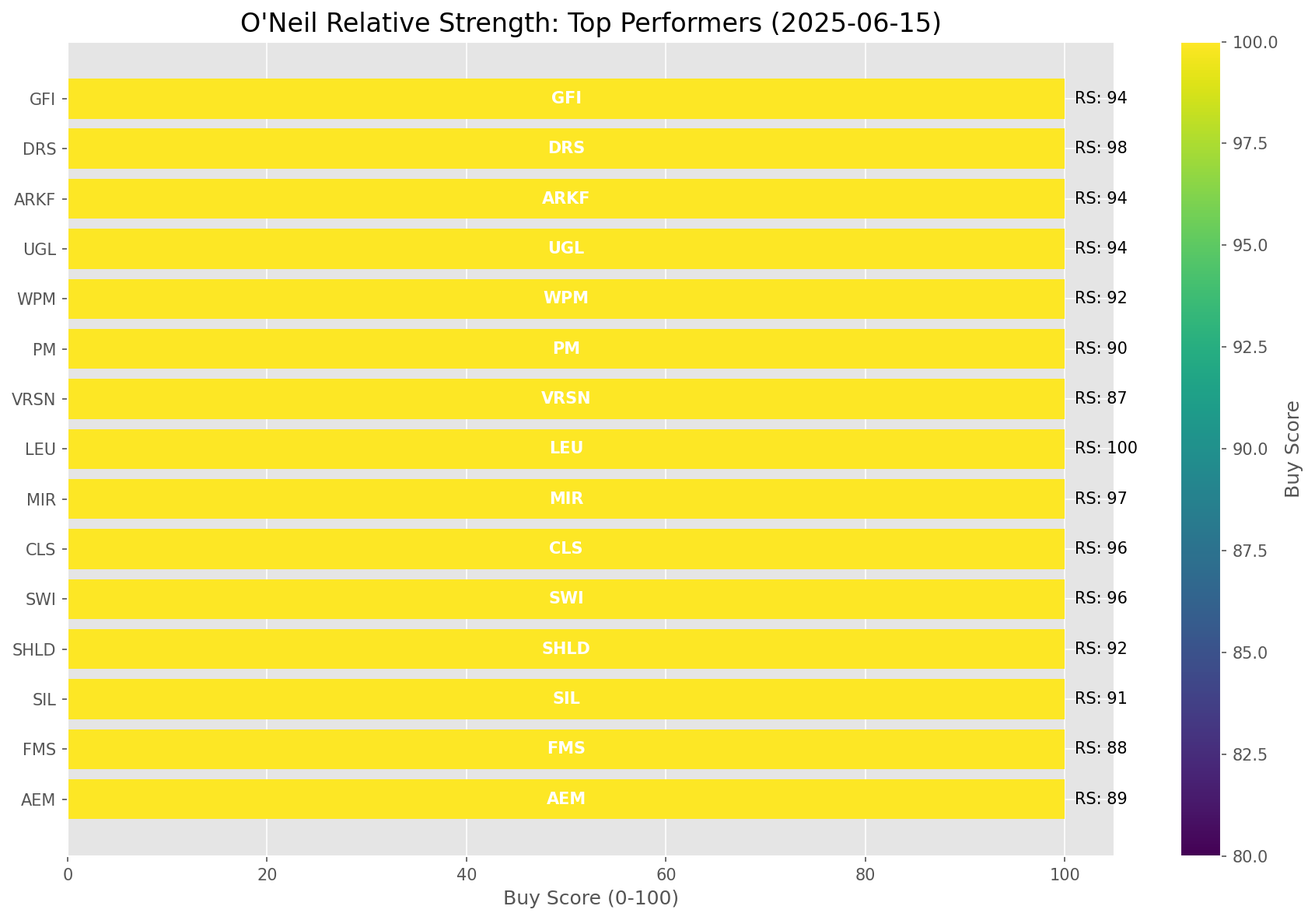
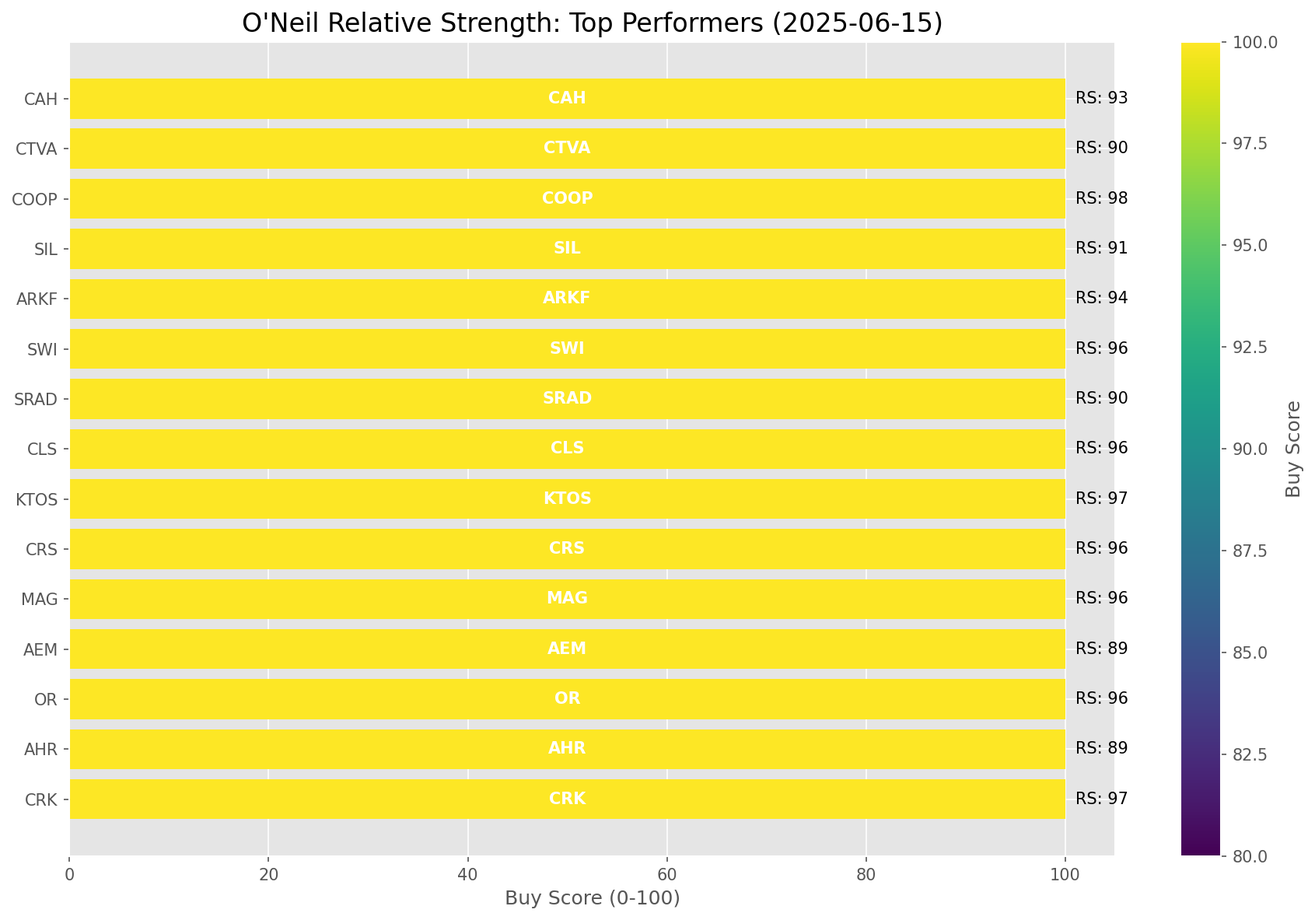
Add market report for 2025-06-15

diff --git a/oneil_relative_strength_report_2025-06-15.md b/oneil_relative_strength_report_2025-06-15.md
@@ -76,13 +76,13 @@ Based on William O'Neil's Relative Strength Methodology
 | [XLP](https://www.tradingview.com/chart/?symbol=XLP) | 46.5 | 53.0 | 1.82% | 10d ✗, 50d ✗, 200d ✗ | ↗ | Consumer Staples |
 | [IYR](https://www.tradingview.com/chart/?symbol=IYR) | 43.3 | 47.0 | 0.45% | 10d ✓, 50d ✓, 200d ✗ | ↘ | Real Estate |
 | [BIL](https://www.tradingview.com/chart/?symbol=BIL) | 41.8 | 44.0 | 0.00% | 10d ✓, 50d ✓, 200d ✗ | ↘ | Short-term Treasuries |
-| [XLE](https://www.tradingview.com/chart/?symbol=XLE) | 37.3 | 35.0 | -1.85% | 10d ✓, 50d ✓, 200d ✗ | ↘ | Energy |
+| [XLE](https://www.tradingview.com/chart/?symbol=XLE) | 37.8 | 36.0 | -1.85% | 10d ✓, 50d ✓, 200d ✗ | ↘ | Energy |
 | [XLB](https://www.tradingview.com/chart/?symbol=XLB) | 35.9 | 52.0 | 1.63% | 10d ✗, 50d ✓, 200d ✗ | ↘ | Materials |
 | [IYT](https://www.tradingview.com/chart/?symbol=IYT) | 34.4 | 49.0 | 0.99% | 10d ✗, 50d ✓, 200d ✗ | ↘ | Transportation |
 | [IBB](https://www.tradingview.com/chart/?symbol=IBB) | 32.8 | 26.0 | -4.61% | 10d ✓, 50d ✓, 200d ✗ | ↘ | Biotechnology |
 | [XLV](https://www.tradingview.com/chart/?symbol=XLV) | 30.8 | 22.0 | -6.07% | 10d ✓, 50d ✓, 200d ✗ | ↘ | Healthcare |
 | [TLT](https://www.tradingview.com/chart/?symbol=TLT) | 23.9 | 28.0 | -4.26% | 10d ✓, 50d ✗, 200d ✗ | ↘ | Long-term Treasuries |
-| [UUP](https://www.tradingview.com/chart/?symbol=UUP) | 13.5 | 27.0 | -4.30% | 10d ✗, 50d ✗, 200d ✗ | ↘ | U.S. Dollar |
+| [UUP](https://www.tradingview.com/chart/?symbol=UUP) | 14.0 | 28.0 | -4.30% | 10d ✗, 50d ✗, 200d ✗ | ↘ | U.S. Dollar |
 | [ITB](https://www.tradingview.com/chart/?symbol=ITB) | 12.0 | 24.0 | -5.35% | 10d ✗, 50d ✗, 200d ✗ | ↘ | Home Construction |
 
 ### **Sector ETF Performance Interpretation**
@@ -106,70 +106,71 @@ The **Next Generation Internet** sector (represented by **ARKW**) is showing par
 
 ## **Buy Recommendations**
 
-The following 64 stocks show exceptional relative strength:
+The following 65 stocks show exceptional relative strength:
 
 | RS Rating | Buy Score | Current Price | Chart | Name | Ticker |
 |-----------|-----------|---------------|-------|------|--------|
-| 100 | 100 | $162.24 | [Chart](https://www.tradingview.com/chart/?symbol=LEU) | Centrus Energy Corp. | LEU |
 | 100 | 100 | $133.54 | [Chart](https://www.tradingview.com/chart/?symbol=SEZL) | Sezzle Inc. Common Stock | SEZL |
+| 100 | 100 | $162.24 | [Chart](https://www.tradingview.com/chart/?symbol=LEU) | Centrus Energy Corp. | LEU |
 | 100 | 100 | $97.17 | [Chart](https://www.tradingview.com/chart/?symbol=RBLX) | Roblox Corporation | RBLX |
 | 99 | 100 | $50.84 | [Chart](https://www.tradingview.com/chart/?symbol=AU) | AngloGold Ashanti plc | AU |
 | 99 | 100 | $137.40 | [Chart](https://www.tradingview.com/chart/?symbol=PLTR) | Palantir Technologies Inc. Class A Common Stock | PLTR |
 | 99 | 100 | $42.49 | [Chart](https://www.tradingview.com/chart/?symbol=FARO) | Faro Technologies Inc | FARO |
-| 98 | 100 | $46.07 | [Chart](https://www.tradingview.com/chart/?symbol=DRS) | Leonardo DRS, Inc. Common Stock | DRS |
 | 98 | 100 | $143.08 | [Chart](https://www.tradingview.com/chart/?symbol=COOP) | Mr. Cooper Group Inc. Common Stock | COOP |
-| 97 | 100 | $19.90 | [Chart](https://www.tradingview.com/chart/?symbol=MIR) | Mirion Technologies, Inc. | MIR |
+| 98 | 100 | $46.07 | [Chart](https://www.tradingview.com/chart/?symbol=DRS) | Leonardo DRS, Inc. Common Stock | DRS |
 | 97 | 100 | $25.33 | [Chart](https://www.tradingview.com/chart/?symbol=CRK) | Comstock Resources, Inc. | CRK |
 | 97 | 100 | $41.76 | [Chart](https://www.tradingview.com/chart/?symbol=KTOS) | Kratos Defense & Security Solutions, Inc. | KTOS |
-| 96 | 100 | $125.33 | [Chart](https://www.tradingview.com/chart/?symbol=CLS) | Celestica, Inc. | CLS |
-| 96 | 100 | $253.18 | [Chart](https://www.tradingview.com/chart/?symbol=GWRE) | GUIDEWIRE SOFTWARE, INC. | GWRE |
+| 97 | 100 | $19.90 | [Chart](https://www.tradingview.com/chart/?symbol=MIR) | Mirion Technologies, Inc. | MIR |
 | 96 | 100 | $26.80 | [Chart](https://www.tradingview.com/chart/?symbol=OR) | OR Royalties Inc. | OR |
 | 96 | 100 | $21.42 | [Chart](https://www.tradingview.com/chart/?symbol=MAG) | MAG Silver Corp. | MAG |
+| 96 | 100 | $248.72 | [Chart](https://www.tradingview.com/chart/?symbol=CRS) | Carpenter Technology Corp | CRS |
+| 96 | 100 | $125.33 | [Chart](https://www.tradingview.com/chart/?symbol=CLS) | Celestica, Inc. | CLS |
 | 96 | 100 | $480.62 | [Chart](https://www.tradingview.com/chart/?symbol=CRWD) | CrowdStrike Holdings, Inc. Class A Common Stock | CRWD |
+| 96 | 100 | $253.18 | [Chart](https://www.tradingview.com/chart/?symbol=GWRE) | GUIDEWIRE SOFTWARE, INC. | GWRE |
 | 96 | 100 | $277.16 | [Chart](https://www.tradingview.com/chart/?symbol=TLN) | Talen Energy Corporation Common Stock | TLN |
 | 95 | 100 | $71.23 | [Chart](https://www.tradingview.com/chart/?symbol=GDXJ) | VanEck Junior Gold Miners ETF | GDXJ |
 | 95 | 100 | $25.13 | [Chart](https://www.tradingview.com/chart/?symbol=TFPM) | Triple Flag Precious Metals Corp. | TFPM |
-| 94 | 100 | $37.47 | [Chart](https://www.tradingview.com/chart/?symbol=UGL) | ProShares Ultra Gold | UGL |
 | 94 | 100 | $44.07 | [Chart](https://www.tradingview.com/chart/?symbol=ARKF) | ARK Fintech Innovation ETF | ARKF |
-| 94 | 100 | $25.71 | [Chart](https://www.tradingview.com/chart/?symbol=GFI) | Gold Fields Ltd ADR | GFI |
+| 94 | 100 | $37.47 | [Chart](https://www.tradingview.com/chart/?symbol=UGL) | ProShares Ultra Gold | UGL |
 | 94 | 100 | $506.16 | [Chart](https://www.tradingview.com/chart/?symbol=CASY) | Casey's General Stores Inc | CASY |
+| 94 | 100 | $25.71 | [Chart](https://www.tradingview.com/chart/?symbol=GFI) | Gold Fields Ltd ADR | GFI |
 | 93 | 100 | $161.41 | [Chart](https://www.tradingview.com/chart/?symbol=CAH) | Cardinal Health, Inc. | CAH |
+| 93 | 100 | $55.62 | [Chart](https://www.tradingview.com/chart/?symbol=AKRO) | Akero Therapeutics, Inc. Common Stock | AKRO |
 | 93 | 100 | $174.57 | [Chart](https://www.tradingview.com/chart/?symbol=EAT) | Brinker International, Inc. | EAT |
 | 93 | 100 | $129.38 | [Chart](https://www.tradingview.com/chart/?symbol=NTES) | NetEase, inc. | NTES |
-| 93 | 100 | $55.62 | [Chart](https://www.tradingview.com/chart/?symbol=AKRO) | Akero Therapeutics, Inc. Common Stock | AKRO |
-| 92 | 100 | $59.28 | [Chart](https://www.tradingview.com/chart/?symbol=SHLD) | Global X Defense Tech ETF | SHLD |
-| 92 | 100 | $91.70 | [Chart](https://www.tradingview.com/chart/?symbol=WPM) | Wheaton Precious Metals Corp. Common Stock | WPM |
 | 92 | 100 | $54.46 | [Chart](https://www.tradingview.com/chart/?symbol=GDX) | VanEck Gold Miners ETF | GDX |
+| 92 | 100 | $91.70 | [Chart](https://www.tradingview.com/chart/?symbol=WPM) | Wheaton Precious Metals Corp. Common Stock | WPM |
+| 92 | 100 | $59.28 | [Chart](https://www.tradingview.com/chart/?symbol=SHLD) | Global X Defense Tech ETF | SHLD |
 | 91 | 100 | $48.81 | [Chart](https://www.tradingview.com/chart/?symbol=SIL) | Global X Silver Miners ETF (NEW) | SIL |
 | 91 | 100 | $710.85 | [Chart](https://www.tradingview.com/chart/?symbol=SPOT) | Spotify Technology S.A. | SPOT |
-| 90 | 100 | $184.33 | [Chart](https://www.tradingview.com/chart/?symbol=PM) | Philip Morris International Inc. | PM |
 | 90 | 100 | $24.33 | [Chart](https://www.tradingview.com/chart/?symbol=SRAD) | Sportradar Group AG Class A Ordinary Shares | SRAD |
 | 90 | 100 | $72.43 | [Chart](https://www.tradingview.com/chart/?symbol=CTVA) | Corteva, Inc. Common Stock | CTVA |
+| 90 | 100 | $184.33 | [Chart](https://www.tradingview.com/chart/?symbol=PM) | Philip Morris International Inc. | PM |
+| 89 | 100 | $35.40 | [Chart](https://www.tradingview.com/chart/?symbol=AHR) | American Healthcare REIT, Inc. | AHR |
 | 89 | 100 | $124.46 | [Chart](https://www.tradingview.com/chart/?symbol=AEM) | Agnico Eagle Mines Ltd. | AEM |
 | 89 | 100 | $28.88 | [Chart](https://www.tradingview.com/chart/?symbol=IMAX) | Imax Corp | IMAX |
-| 89 | 100 | $35.40 | [Chart](https://www.tradingview.com/chart/?symbol=AHR) | American Healthcare REIT, Inc. | AHR |
 | 88 | 100 | $28.61 | [Chart](https://www.tradingview.com/chart/?symbol=FMS) | Fresenius Medical Care AG | FMS |
 | 87 | 100 | $279.90 | [Chart](https://www.tradingview.com/chart/?symbol=VRSN) | VeriSign Inc | VRSN |
-| 86 | 100 | $217.50 | [Chart](https://www.tradingview.com/chart/?symbol=DRI) | Darden Restaurants, Inc. | DRI |
 | 88 | 99 | $180.22 | [Chart](https://www.tradingview.com/chart/?symbol=ITA) | iShares U.S. Aerospace & Defense ETF | ITA |
+| 88 | 99 | $182.29 | [Chart](https://www.tradingview.com/chart/?symbol=RGLD) | Royal Gold Inc | RGLD |
 | 87 | 99 | $48.80 | [Chart](https://www.tradingview.com/chart/?symbol=BTI) | British American Tobacco p.l.c. American Depositary Shares, American Depositary Shares, each representing one Ordinary Share | BTI |
+| 86 | 99 | $217.50 | [Chart](https://www.tradingview.com/chart/?symbol=DRI) | Darden Restaurants, Inc. | DRI |
 | 88 | 98 | $136.67 | [Chart](https://www.tradingview.com/chart/?symbol=PPA) | Invesco Aerospace & Defense ETF | PPA |
 | 87 | 98 | $217.30 | [Chart](https://www.tradingview.com/chart/?symbol=BAP) | Credicorp LTD | BAP |
-| 87 | 98 | $182.29 | [Chart](https://www.tradingview.com/chart/?symbol=RGLD) | Royal Gold Inc | RGLD |
 | 85 | 98 | $41.12 | [Chart](https://www.tradingview.com/chart/?symbol=VIRT) | Virtu Financial, Inc. Class A | VIRT |
-| 84 | 97 | $316.29 | [Chart](https://www.tradingview.com/chart/?symbol=GLD) | SPDR Gold Trust, SPDR Gold Shares | GLD |
-| 84 | 97 | $32.75 | [Chart](https://www.tradingview.com/chart/?symbol=SGOL) | abrdn Physical Gold Shares ETF | SGOL |
-| 84 | 97 | $33.09 | [Chart](https://www.tradingview.com/chart/?symbol=OUNZ) | VanEck Merk Gold ETF | OUNZ |
-| 84 | 97 | $64.74 | [Chart](https://www.tradingview.com/chart/?symbol=IAU) | iShares Gold Trust | IAU |
-| 84 | 97 | $67.97 | [Chart](https://www.tradingview.com/chart/?symbol=GLDM) | SPDR Gold MiniShares | GLDM |
 | 84 | 97 | $33.91 | [Chart](https://www.tradingview.com/chart/?symbol=AAAU) | Goldman Sachs Physical Gold ETF Shares | AAAU |
+| 84 | 97 | $67.97 | [Chart](https://www.tradingview.com/chart/?symbol=GLDM) | SPDR Gold MiniShares | GLDM |
+| 84 | 97 | $64.74 | [Chart](https://www.tradingview.com/chart/?symbol=IAU) | iShares Gold Trust | IAU |
+| 84 | 97 | $32.75 | [Chart](https://www.tradingview.com/chart/?symbol=SGOL) | abrdn Physical Gold Shares ETF | SGOL |
+| 84 | 97 | $316.29 | [Chart](https://www.tradingview.com/chart/?symbol=GLD) | SPDR Gold Trust, SPDR Gold Shares | GLD |
+| 84 | 97 | $33.09 | [Chart](https://www.tradingview.com/chart/?symbol=OUNZ) | VanEck Merk Gold ETF | OUNZ |
 | 86 | 96 | $85.59 | [Chart](https://www.tradingview.com/chart/?symbol=NDAQ) | Nasdaq, Inc. Common Stock | NDAQ |
 | 84 | 96 | $34.24 | [Chart](https://www.tradingview.com/chart/?symbol=IAUM) | iShares Gold Trust Micro | IAUM |
 | 83 | 96 | $26.29 | [Chart](https://www.tradingview.com/chart/?symbol=PHYS) | Sprott Physical Gold Trust | PHYS |
 | 85 | 95 | $80.12 | [Chart](https://www.tradingview.com/chart/?symbol=BBCA) | JPMorgan BetaBuilders Canada ETF | BBCA |
 | 83 | 95 | $30.55 | [Chart](https://www.tradingview.com/chart/?symbol=MP) | MP Materials Corp. | MP |
-| 84 | 93 | $49.29 | [Chart](https://www.tradingview.com/chart/?symbol=GH) | Guardant Health, Inc. Common Stock | GH |
 | 84 | 93 | $27.93 | [Chart](https://www.tradingview.com/chart/?symbol=TGS) | Transportadora de Gas del Sur S.A. ADS | TGS |
+| 84 | 93 | $49.29 | [Chart](https://www.tradingview.com/chart/?symbol=GH) | Guardant Health, Inc. Common Stock | GH |
 | 80 | 93 | $56.84 | [Chart](https://www.tradingview.com/chart/?symbol=EQT) | EQT CORP | EQT |
 | 80 | 91 | $171.76 | [Chart](https://www.tradingview.com/chart/?symbol=FNV) | Franco-Nevada Corporation | FNV |
 | 80 | 91 | $145.69 | [Chart](https://www.tradingview.com/chart/?symbol=RTX) | RTX Corporation | RTX |
@@ -186,52 +187,52 @@ The following 156 stocks show deteriorating relative strength:
 |-----------|------------|---------------|-------|------|--------|
 | 1 | 100 | $32.02 | [Chart](https://www.tradingview.com/chart/?symbol=TECS) | Direxion Daily Technology Bear 3x Shares | TECS |
 | 1 | 100 | $12.16 | [Chart](https://www.tradingview.com/chart/?symbol=IART) | Integra LifeSciences Holdings | IART |
-| 2 | 100 | $11.93 | [Chart](https://www.tradingview.com/chart/?symbol=NRIX) | Nurix Therapeutics, Inc. Common stock | NRIX |
-| 2 | 100 | $10.36 | [Chart](https://www.tradingview.com/chart/?symbol=WNC) | Wabash National Corp. | WNC |
-| 2 | 100 | $17.00 | [Chart](https://www.tradingview.com/chart/?symbol=NVDS) | Investment Managers Series Trust II Tradr 1.5X Short NVDA Daily ETF | NVDS |
 | 2 | 100 | $94.70 | [Chart](https://www.tradingview.com/chart/?symbol=ONTO) | Onto Innovation Inc. | ONTO |
+| 2 | 100 | $10.36 | [Chart](https://www.tradingview.com/chart/?symbol=WNC) | Wabash National Corp. | WNC |
 | 2 | 100 | $17.06 | [Chart](https://www.tradingview.com/chart/?symbol=BEAM) | Beam Therapeutics Inc. Common Stock | BEAM |
-| 2 | 100 | $10.25 | [Chart](https://www.tradingview.com/chart/?symbol=SNDX) | Syndax Pharmaceuticals, Inc. | SNDX |
+| 2 | 100 | $17.00 | [Chart](https://www.tradingview.com/chart/?symbol=NVDS) | Investment Managers Series Trust II Tradr 1.5X Short NVDA Daily ETF | NVDS |
+| 2 | 100 | $11.93 | [Chart](https://www.tradingview.com/chart/?symbol=NRIX) | Nurix Therapeutics, Inc. Common stock | NRIX |
 | 2 | 100 | $17.60 | [Chart](https://www.tradingview.com/chart/?symbol=ICHR) | Ichor Holdings | ICHR |
+| 2 | 100 | $10.25 | [Chart](https://www.tradingview.com/chart/?symbol=SNDX) | Syndax Pharmaceuticals, Inc. | SNDX |
+| 3 | 100 | $13.36 | [Chart](https://www.tradingview.com/chart/?symbol=INMD) | InMode Ltd. Ordinary Shares | INMD |
+| 3 | 100 | $10.07 | [Chart](https://www.tradingview.com/chart/?symbol=MBC) | MasterBrand, Inc. | MBC |
 | 3 | 100 | $20.72 | [Chart](https://www.tradingview.com/chart/?symbol=THS) | Treehouse Foods, Inc. | THS |
 | 3 | 100 | $10.32 | [Chart](https://www.tradingview.com/chart/?symbol=PACS) | PACS Group, Inc. | PACS |
-| 3 | 100 | $13.36 | [Chart](https://www.tradingview.com/chart/?symbol=INMD) | InMode Ltd. Ordinary Shares | INMD |
-| 3 | 100 | $12.36 | [Chart](https://www.tradingview.com/chart/?symbol=ERII) | Energy Recovery, Inc. | ERII |
-| 3 | 100 | $10.07 | [Chart](https://www.tradingview.com/chart/?symbol=MBC) | MasterBrand, Inc. | MBC |
 | 3 | 100 | $43.65 | [Chart](https://www.tradingview.com/chart/?symbol=LINE) | Lineage, Inc. Common Stock | LINE |
 | 4 | 100 | $137.07 | [Chart](https://www.tradingview.com/chart/?symbol=KRYS) | Krystal Biotech, Inc. Common Stock | KRYS |
 | 4 | 100 | $10.71 | [Chart](https://www.tradingview.com/chart/?symbol=PUBM) | PubMatic, Inc. Class A Common Stock | PUBM |
-| 5 | 100 | $50.72 | [Chart](https://www.tradingview.com/chart/?symbol=SLVM) | Sylvamo Corporation | SLVM |
-| 5 | 100 | $10.80 | [Chart](https://www.tradingview.com/chart/?symbol=TWO) | Two Harbors Investment Corp. | TWO |
-| 5 | 100 | $29.87 | [Chart](https://www.tradingview.com/chart/?symbol=FUN) | Six Flags Entertainment Corporation | FUN |
-| 5 | 100 | $52.88 | [Chart](https://www.tradingview.com/chart/?symbol=CCS) | CENTURY COMMUNITIES, INC. | CCS |
-| 5 | 100 | $10.41 | [Chart](https://www.tradingview.com/chart/?symbol=CWK) | Cushman & Wakefield plc Ordinary Shares | CWK |
-| 5 | 100 | $34.38 | [Chart](https://www.tradingview.com/chart/?symbol=CYTK) | Cytokinetics Inc. | CYTK |
+| 4 | 100 | $12.36 | [Chart](https://www.tradingview.com/chart/?symbol=ERII) | Energy Recovery, Inc. | ERII |
 | 5 | 100 | $82.14 | [Chart](https://www.tradingview.com/chart/?symbol=LNW) | Light & Wonder, Inc. Common Stock | LNW |
-| 6 | 100 | $20.28 | [Chart](https://www.tradingview.com/chart/?symbol=HI) | Hillenbrand, Inc. | HI |
-| 6 | 100 | $15.27 | [Chart](https://www.tradingview.com/chart/?symbol=SAFE) | Safehold Inc. | SAFE |
+| 5 | 100 | $52.88 | [Chart](https://www.tradingview.com/chart/?symbol=CCS) | CENTURY COMMUNITIES, INC. | CCS |
+| 5 | 100 | $29.87 | [Chart](https://www.tradingview.com/chart/?symbol=FUN) | Six Flags Entertainment Corporation | FUN |
+| 5 | 100 | $10.80 | [Chart](https://www.tradingview.com/chart/?symbol=TWO) | Two Harbors Investment Corp. | TWO |
+| 5 | 100 | $34.38 | [Chart](https://www.tradingview.com/chart/?symbol=CYTK) | Cytokinetics Inc. | CYTK |
+| 5 | 100 | $10.41 | [Chart](https://www.tradingview.com/chart/?symbol=CWK) | Cushman & Wakefield plc Ordinary Shares | CWK |
+| 5 | 100 | $50.72 | [Chart](https://www.tradingview.com/chart/?symbol=SLVM) | Sylvamo Corporation | SLVM |
 | 6 | 100 | $22.22 | [Chart](https://www.tradingview.com/chart/?symbol=AMRK) | A-Mark Precious Metals, Inc. | AMRK |
-| 6 | 100 | $31.27 | [Chart](https://www.tradingview.com/chart/?symbol=MBIN) | Merchants Bancorp Common Stock | MBIN |
+| 6 | 100 | $20.28 | [Chart](https://www.tradingview.com/chart/?symbol=HI) | Hillenbrand, Inc. | HI |
 | 6 | 100 | $38.55 | [Chart](https://www.tradingview.com/chart/?symbol=APOG) | Apogee Enterprises Inc | APOG |
-| 7 | 100 | $11.90 | [Chart](https://www.tradingview.com/chart/?symbol=HPK) | HighPeak Energy, Inc. Common Stock | HPK |
+| 6 | 100 | $15.27 | [Chart](https://www.tradingview.com/chart/?symbol=SAFE) | Safehold Inc. | SAFE |
+| 6 | 100 | $31.27 | [Chart](https://www.tradingview.com/chart/?symbol=MBIN) | Merchants Bancorp Common Stock | MBIN |
 | 7 | 100 | $24.90 | [Chart](https://www.tradingview.com/chart/?symbol=JANX) | Janux Therapeutics, Inc. Common Stock | JANX |
-| 7 | 100 | $10.16 | [Chart](https://www.tradingview.com/chart/?symbol=SCS) | Steelcase, Inc. | SCS |
-| 7 | 100 | $17.25 | [Chart](https://www.tradingview.com/chart/?symbol=CODI) | Compass Diversified | CODI |
+| 7 | 100 | $11.90 | [Chart](https://www.tradingview.com/chart/?symbol=HPK) | HighPeak Energy, Inc. Common Stock | HPK |
 | 7 | 100 | $17.01 | [Chart](https://www.tradingview.com/chart/?symbol=AMTB) | Amerant Bancorp Inc. | AMTB |
-| 8 | 100 | $23.52 | [Chart](https://www.tradingview.com/chart/?symbol=RPD) | Rapid7, Inc. Common Stock | RPD |
-| 8 | 100 | $91.28 | [Chart](https://www.tradingview.com/chart/?symbol=ZBH) | Zimmer Biomet Holdings, Inc. | ZBH |
+| 7 | 100 | $10.16 | [Chart](https://www.tradingview.com/chart/?symbol=SCS) | Steelcase, Inc. | SCS |
+| 8 | 100 | $17.25 | [Chart](https://www.tradingview.com/chart/?symbol=CODI) | Compass Diversified | CODI |
 | 8 | 100 | $12.85 | [Chart](https://www.tradingview.com/chart/?symbol=THRY) | Thryv Holdings, Inc. Common Stock | THRY |
+| 8 | 100 | $91.28 | [Chart](https://www.tradingview.com/chart/?symbol=ZBH) | Zimmer Biomet Holdings, Inc. | ZBH |
+| 9 | 100 | $23.52 | [Chart](https://www.tradingview.com/chart/?symbol=RPD) | Rapid7, Inc. Common Stock | RPD |
 | 9 | 100 | $20.30 | [Chart](https://www.tradingview.com/chart/?symbol=SPT) | Sprout Social, Inc Class A Common Stock | SPT |
-| 9 | 100 | $26.08 | [Chart](https://www.tradingview.com/chart/?symbol=VKTX) | Viking Therapeutics, Inc | VKTX |
 | 9 | 100 | $19.40 | [Chart](https://www.tradingview.com/chart/?symbol=HVT) | Haverty Furniture Companies, Inc. | HVT |
-| 10 | 100 | $112.62 | [Chart](https://www.tradingview.com/chart/?symbol=AMR) | Alpha Metallurgical Resources, Inc. | AMR |
+| 9 | 100 | $26.08 | [Chart](https://www.tradingview.com/chart/?symbol=VKTX) | Viking Therapeutics, Inc | VKTX |
 | 10 | 100 | $18.31 | [Chart](https://www.tradingview.com/chart/?symbol=DNTH) | Dianthus Therapeutics, Inc. Common Stock | DNTH |
+| 10 | 100 | $112.62 | [Chart](https://www.tradingview.com/chart/?symbol=AMR) | Alpha Metallurgical Resources, Inc. | AMR |
 | 10 | 100 | $12.40 | [Chart](https://www.tradingview.com/chart/?symbol=WSR) | Whitestone REIT | WSR |
 | 10 | 100 | $21.16 | [Chart](https://www.tradingview.com/chart/?symbol=KIDS) | OrthoPediatrics Corp. Common Stock | KIDS |
-| 11 | 100 | $85.73 | [Chart](https://www.tradingview.com/chart/?symbol=BCC) | Boise Cascade Company | BCC |
 | 11 | 100 | $52.91 | [Chart](https://www.tradingview.com/chart/?symbol=AMWD) | American Woodmark Corp | AMWD |
-| 12 | 100 | $119.93 | [Chart](https://www.tradingview.com/chart/?symbol=TFX) | Teleflex Incorporated | TFX |
+| 11 | 100 | $85.73 | [Chart](https://www.tradingview.com/chart/?symbol=BCC) | Boise Cascade Company | BCC |
 | 12 | 100 | $10.02 | [Chart](https://www.tradingview.com/chart/?symbol=LBTYA) | Liberty Global Ltd. Class A Common Shares | LBTYA |
+| 12 | 100 | $119.93 | [Chart](https://www.tradingview.com/chart/?symbol=TFX) | Teleflex Incorporated | TFX |
 | 14 | 100 | $10.14 | [Chart](https://www.tradingview.com/chart/?symbol=LBTYK) | Liberty Global Ltd. Class C Common Shares | LBTYK |
 | 3 | 99 | $10.17 | [Chart](https://www.tradingview.com/chart/?symbol=SONO) | Sonos, Inc. Common Stock | SONO |
 | 3 | 99 | $13.91 | [Chart](https://www.tradingview.com/chart/?symbol=DQ) | Daqo New Energy Corp. American Depositary Shares (each representing 5 Ordinary Shares) | DQ |
@@ -241,9 +242,9 @@ The following 156 stocks show deteriorating relative strength:
 | 12 | 99 | $47.56 | [Chart](https://www.tradingview.com/chart/?symbol=SDOW) | ProShares UltraPro Short Dow 30 | SDOW |
 | 16 | 99 | $64.98 | [Chart](https://www.tradingview.com/chart/?symbol=ZROZ) | PIMCO 25+ Year Zero Coupon U.S. Treasury Index Exchange-Traded Fund | ZROZ |
 | 21 | 99 | $12.98 | [Chart](https://www.tradingview.com/chart/?symbol=MED) | Medifast, Inc. | MED |
+| 10 | 98 | $41.06 | [Chart](https://www.tradingview.com/chart/?symbol=PRKS) | United Parks & Resorts Inc. | PRKS |
 | 10 | 98 | $73.63 | [Chart](https://www.tradingview.com/chart/?symbol=FND) | Floor & Decor Holdings, Inc. | FND |
 | 10 | 98 | $18.04 | [Chart](https://www.tradingview.com/chart/?symbol=IRT) | Independence Realty Trust Inc. | IRT |
-| 10 | 98 | $41.06 | [Chart](https://www.tradingview.com/chart/?symbol=PRKS) | United Parks & Resorts Inc. | PRKS |
 | 11 | 98 | $18.36 | [Chart](https://www.tradingview.com/chart/?symbol=PLAB) | Photronics Inc | PLAB |
 | 12 | 98 | $14.60 | [Chart](https://www.tradingview.com/chart/?symbol=IGT) | International Game Technology PLC | IGT |
 | 13 | 98 | $10.58 | [Chart](https://www.tradingview.com/chart/?symbol=NMFC) | NEW MOUNTAIN FINANCE CORPORATION | NMFC |
@@ -255,11 +256,11 @@ The following 156 stocks show deteriorating relative strength:
 | 7 | 96 | $10.41 | [Chart](https://www.tradingview.com/chart/?symbol=NEWT) | NewtekOne, Inc. Common Stock | NEWT |
 | 9 | 96 | $431.99 | [Chart](https://www.tradingview.com/chart/?symbol=WSO) | Watsco, Inc. | WSO |
 | 11 | 96 | $12.58 | [Chart](https://www.tradingview.com/chart/?symbol=PMT) | PennyMac Mortgage Investment Trust | PMT |
-| 15 | 96 | $10.30 | [Chart](https://www.tradingview.com/chart/?symbol=CARS) | Cars.com Inc. Common Stock | CARS |
 | 9 | 95 | $34.30 | [Chart](https://www.tradingview.com/chart/?symbol=AVNT) | Avient Corporation | AVNT |
 | 10 | 95 | $37.73 | [Chart](https://www.tradingview.com/chart/?symbol=WLY) | John Wiley & Sons, Inc. Class A | WLY |
-| 15 | 95 | $53.56 | [Chart](https://www.tradingview.com/chart/?symbol=GIS) | General Mills, Inc. | GIS |
 | 15 | 95 | $95.67 | [Chart](https://www.tradingview.com/chart/?symbol=UFPI) | UFP Industries, Inc. Common Stock | UFPI |
+| 15 | 95 | $53.56 | [Chart](https://www.tradingview.com/chart/?symbol=GIS) | General Mills, Inc. | GIS |
+| 16 | 95 | $10.30 | [Chart](https://www.tradingview.com/chart/?symbol=CARS) | Cars.com Inc. Common Stock | CARS |
 | 19 | 95 | $24.60 | [Chart](https://www.tradingview.com/chart/?symbol=WS) | Worthington Steel, Inc. | WS |
 | 9 | 94 | $127.52 | [Chart](https://www.tradingview.com/chart/?symbol=RGEN) | Repligen Corp | RGEN |
 | 15 | 94 | $15.06 | [Chart](https://www.tradingview.com/chart/?symbol=SEM) | SELECT MEDICAL HOLDINGS CORP | SEM |
@@ -274,27 +275,27 @@ The following 156 stocks show deteriorating relative strength:
 | 19 | 92 | $91.88 | [Chart](https://www.tradingview.com/chart/?symbol=PCAR) | Paccar Inc | PCAR |
 | 19 | 92 | $14.92 | [Chart](https://www.tradingview.com/chart/?symbol=VRE) | Veris Residential, Inc. | VRE |
 | 9 | 91 | $15.10 | [Chart](https://www.tradingview.com/chart/?symbol=QNST) | QuinStreet, Inc. | QNST |
-| 12 | 91 | $61.88 | [Chart](https://www.tradingview.com/chart/?symbol=MAS) | Masco Corporation | MAS |
 | 13 | 91 | $29.25 | [Chart](https://www.tradingview.com/chart/?symbol=OMCL) | Omnicell Inc | OMCL |
 | 14 | 91 | $72.99 | [Chart](https://www.tradingview.com/chart/?symbol=AAON) | Aaon Inc | AAON |
-| 20 | 91 | $235.26 | [Chart](https://www.tradingview.com/chart/?symbol=HUM) | Humana Inc. | HUM |
 | 22 | 91 | $21.29 | [Chart](https://www.tradingview.com/chart/?symbol=SIRI) | Sirius XM Holdings,  Inc | SIRI |
 | 12 | 90 | $39.11 | [Chart](https://www.tradingview.com/chart/?symbol=PCH) | PotlatchDeltic Corporation Common Stock | PCH |
 | 12 | 90 | $17.45 | [Chart](https://www.tradingview.com/chart/?symbol=ZTO) | ZTO Express (Cayman) Inc. American Depositary Shares, each representing one Class A ordinary share | ZTO |
+| 13 | 90 | $61.88 | [Chart](https://www.tradingview.com/chart/?symbol=MAS) | Masco Corporation | MAS |
 | 14 | 90 | $97.09 | [Chart](https://www.tradingview.com/chart/?symbol=CHD) | Church & Dwight Co., Inc. | CHD |
 | 17 | 90 | $107.02 | [Chart](https://www.tradingview.com/chart/?symbol=MHO) | M/I Homes, Inc. | MHO |
 | 18 | 90 | $10.27 | [Chart](https://www.tradingview.com/chart/?symbol=NMZ) | Nuveen Municipal High Income Opportunity Fund | NMZ |
+| 21 | 90 | $235.26 | [Chart](https://www.tradingview.com/chart/?symbol=HUM) | Humana Inc. | HUM |
 | 21 | 90 | $77.59 | [Chart](https://www.tradingview.com/chart/?symbol=OTTR) | Otter Tail Corp | OTTR |
-| 13 | 89 | $11.63 | [Chart](https://www.tradingview.com/chart/?symbol=FFIC) | Flushing Financial Corp | FFIC |
 | 15 | 89 | $455.45 | [Chart](https://www.tradingview.com/chart/?symbol=VRTX) | Vertex Pharmaceuticals Inc | VRTX |
 | 18 | 89 | $74.01 | [Chart](https://www.tradingview.com/chart/?symbol=MKC) | McCormick & Company, Incorporated Non-VTG CS | MKC |
-| 20 | 89 | $17.08 | [Chart](https://www.tradingview.com/chart/?symbol=SVOL) | Simplify Volatility Premium ETF | SVOL |
 | 23 | 89 | $15.81 | [Chart](https://www.tradingview.com/chart/?symbol=BBN) | BlackRock Taxable Municipal Bond Trust | BBN |
 | 24 | 89 | $41.98 | [Chart](https://www.tradingview.com/chart/?symbol=SW) | Smurfit Westrock plc | SW |
 | 26 | 89 | $13.00 | [Chart](https://www.tradingview.com/chart/?symbol=MRTN) | Marten Transport Ltd | MRTN |
+| 14 | 88 | $11.63 | [Chart](https://www.tradingview.com/chart/?symbol=FFIC) | Flushing Financial Corp | FFIC |
+| 20 | 88 | $62.36 | [Chart](https://www.tradingview.com/chart/?symbol=ELS) | Equity Lifestyle Properties, Inc. | ELS |
 | 20 | 88 | $16.77 | [Chart](https://www.tradingview.com/chart/?symbol=UMH) | UMH Properties, Inc. | UMH |
+| 21 | 88 | $17.08 | [Chart](https://www.tradingview.com/chart/?symbol=SVOL) | Simplify Volatility Premium ETF | SVOL |
 | 23 | 88 | $10.40 | [Chart](https://www.tradingview.com/chart/?symbol=MYI) | BLACKROCK MUNIYIELD QUALITY FUND III, INC. | MYI |
-| 20 | 87 | $62.36 | [Chart](https://www.tradingview.com/chart/?symbol=ELS) | Equity Lifestyle Properties, Inc. | ELS |
 | 21 | 87 | $45.64 | [Chart](https://www.tradingview.com/chart/?symbol=CNA) | CNA Financial Corporation | CNA |
 | 23 | 87 | $40.76 | [Chart](https://www.tradingview.com/chart/?symbol=NBTB) | NBT Bancorp Inc | NBTB |
 | 25 | 87 | $55.22 | [Chart](https://www.tradingview.com/chart/?symbol=CNC) | Centene Corporation | CNC |
@@ -305,11 +306,11 @@ The following 156 stocks show deteriorating relative strength:
 | 20 | 85 | $13.92 | [Chart](https://www.tradingview.com/chart/?symbol=BSM) | Black Stone Minerals, L.P. | BSM |
 | 17 | 84 | $86.00 | [Chart](https://www.tradingview.com/chart/?symbol=BIDU) | Baidu, Inc. | BIDU |
 | 18 | 83 | $196.45 | [Chart](https://www.tradingview.com/chart/?symbol=AAPL) | Apple Inc. | AAPL |
-| 22 | 83 | $23.35 | [Chart](https://www.tradingview.com/chart/?symbol=FFBC) | First Financial Bancorp | FFBC |
 | 23 | 83 | $17.70 | [Chart](https://www.tradingview.com/chart/?symbol=JPMpM) | JPMorgan Chase & Co. Depositary Shares, each representing a 1/400th interest in a share of 4.20% Non-Cumulative Preferred Stock, Series MM | JPMpM |
 | 24 | 83 | $22.68 | [Chart](https://www.tradingview.com/chart/?symbol=TLTW) | iShares 20+ Year Treasury Bond BuyWrite Strategy ETF | TLTW |
-| 22 | 81 | $130.84 | [Chart](https://www.tradingview.com/chart/?symbol=KMB) | Kimberly-Clark Corp. | KMB |
+| 23 | 82 | $23.35 | [Chart](https://www.tradingview.com/chart/?symbol=FFBC) | First Financial Bancorp | FFBC |
 | 22 | 81 | $30.23 | [Chart](https://www.tradingview.com/chart/?symbol=CENTA) | Central Garden & Pet Company | CENTA |
+| 22 | 81 | $130.84 | [Chart](https://www.tradingview.com/chart/?symbol=KMB) | Kimberly-Clark Corp. | KMB |
 | 27 | 81 | $71.62 | [Chart](https://www.tradingview.com/chart/?symbol=SWX) | Southwest Gas Holdings, Inc. | SWX |
 | 28 | 81 | $55.10 | [Chart](https://www.tradingview.com/chart/?symbol=UHAL.B) | U-Haul Holding Company | UHAL.B |
 | 29 | 81 | $30.37 | [Chart](https://www.tradingview.com/chart/?symbol=TPH) | Tri Pointe Homes, Inc. | TPH |
@@ -319,10 +320,10 @@ The following 156 stocks show deteriorating relative strength:
 | 29 | 79 | $54.94 | [Chart](https://www.tradingview.com/chart/?symbol=VGLT) | Vanguard Long-Term Treasury ETF | VGLT |
 | 28 | 78 | $86.33 | [Chart](https://www.tradingview.com/chart/?symbol=TLT) | iShares 20+ Year Treasury Bond ETF | TLT |
 | 32 | 78 | $44.40 | [Chart](https://www.tradingview.com/chart/?symbol=SON) | Sonoco Products Company | SON |
-| 25 | 77 | $43.21 | [Chart](https://www.tradingview.com/chart/?symbol=FBK) | FB Financial Corporation | FBK |
 | 26 | 77 | $98.39 | [Chart](https://www.tradingview.com/chart/?symbol=CCI) | Crown Castle Inc. | CCI |
 | 26 | 77 | $41.23 | [Chart](https://www.tradingview.com/chart/?symbol=UDR) | UDR, Inc. | UDR |
 | 31 | 77 | $217.27 | [Chart](https://www.tradingview.com/chart/?symbol=LOW) | Lowe's Companies Inc. | LOW |
+| 26 | 76 | $43.21 | [Chart](https://www.tradingview.com/chart/?symbol=FBK) | FB Financial Corporation | FBK |
 | 29 | 76 | $10.82 | [Chart](https://www.tradingview.com/chart/?symbol=NEA) | Nuveen AMT-Free Quality Municipal Income Fund | NEA |
 | 31 | 76 | $85.12 | [Chart](https://www.tradingview.com/chart/?symbol=SIGI) | Selective Insurance Group | SIGI |
 | 25 | 75 | $136.12 | [Chart](https://www.tradingview.com/chart/?symbol=DVA) | DaVita Inc. | DVA |
